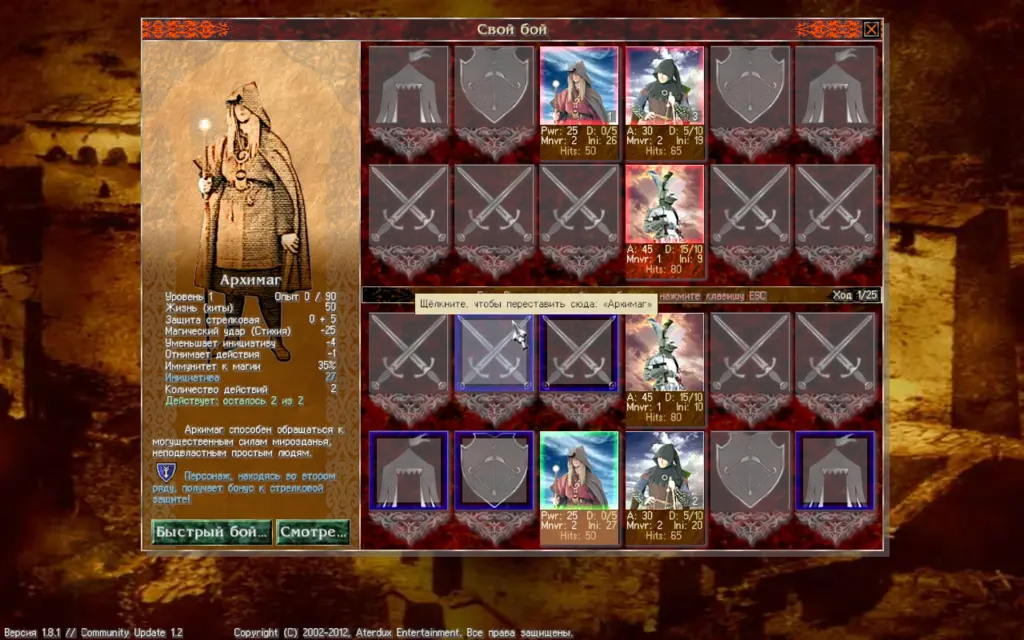
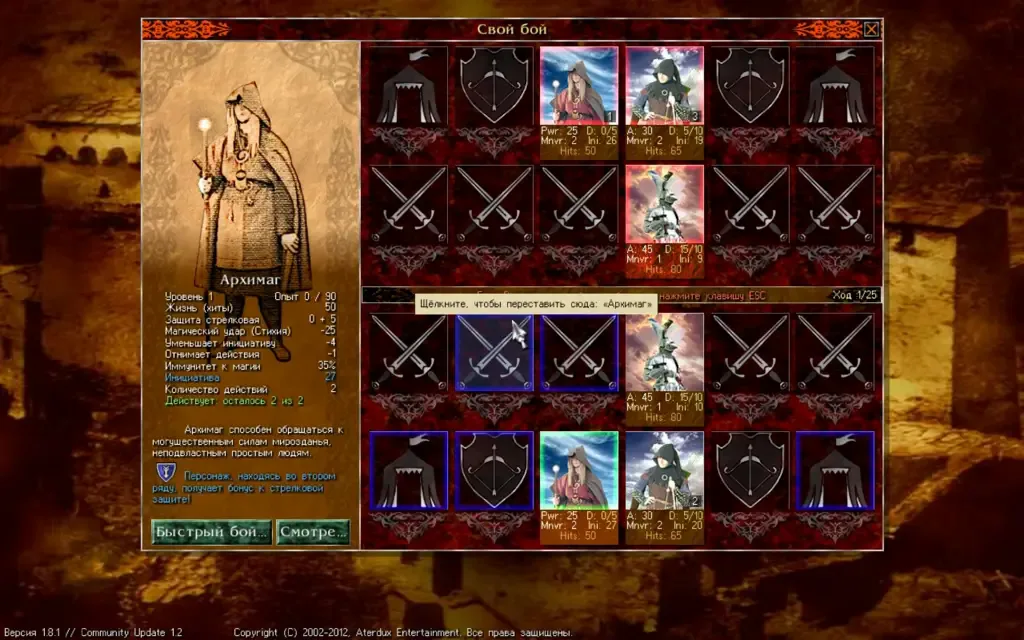
Snapshots: the PNG is written opaque, and the wiki screenshots lose their stray alpha (they looked washed out)
The window shows the frame without its alpha channel, but the snapshot PNG kept
it, so viewers blended the transparent pixels with their background. Every pixel
is now made opaque before export, and the wiki shots are re-encoded as RGB WebP
(same look, 33-75% smaller). shot.sh and the wiki skill drop the alpha too.

diff --git a/src/main.rs b/src/main.rs
@@ -93,6 +93,15 @@ fn quit_after() -> Option<u64> {
     std::env::var("RAZDOR_QUIT_AFTER").ok()?.trim().parse().ok()
 }
 
+/// Makes every pixel of an RGBA buffer opaque. The window shows the frame without its alpha
+/// channel; a PNG keeps it, and viewers then blend the transparent pixels with their
+/// background, so the snapshot looks washed out.
+fn opaque_rgba(rgba: &mut [u8]) {
+    for px in rgba.chunks_exact_mut(4) {
+        px[3] = 255;
+    }
+}
+
 /// Ends the process without running the C `atexit` handlers.
 ///
 /// A normal return from `main` crashed with SIGSEGV every time: `exit` runs the exit handlers
@@ -204,7 +213,9 @@ async fn main() {
         if let Some((path, n)) = &snapshot {
             if frames >= *n {
                 ui::text_probe::write();
-                get_screen_data().export_png(path);
+                let mut shot = get_screen_data();
+                opaque_rgba(&mut shot.bytes);
+                shot.export_png(path);
                 exit_now(&mut app);
             }
         }
@@ -227,5 +238,17 @@ async fn main() {
                 razdor::diag!("slow frame: {:.0} ms = work {w:.0} + render {r:.0} ({before} -> {})", w + r, app.screen_name());
             }
         }
+    }
+}
+
+#[cfg(test)]
+mod tests {
+    use super::opaque_rgba;
+
+    #[test]
+    fn opaque_rgba_sets_every_alpha_and_keeps_rgb() {
+        let mut px = vec![1, 2, 3, 0, 4, 5, 6, 128, 7, 8, 9, 255];
+        opaque_rgba(&mut px);
+        assert_eq!(px, vec![1, 2, 3, 255, 4, 5, 6, 255, 7, 8, 9, 255]);
     }
 }

diff --git a/.claude/skills/wiki/SKILL.md b/.claude/skills/wiki/SKILL.md
@@ -70,7 +70,8 @@ Give gemma only the sources for that page (small inputs, fewer invented facts).
    `tools/ui-regress/scenes.txt`, e.g. `РК1-Начало пути`); a bare `map` silently shows the title
    screen. Identical files (`md5sum`) mean a fallen-back scene. Look at them all at once:
    `magick montage -label '%t' *.webp -tile 4x3 -geometry 360x225+4+4 sheet.jpg`, then Read it.
-   Shrink: `magick f.webp -resize '1024x>' -quality 72 f.webp`. Reference them as
+   Shrink and drop the alpha: `magick f.webp -alpha off -resize '1024x>' -quality 72 f.webp`
+   (`shot.sh` already writes no alpha; a shot with alpha looks washed out in viewers). Reference them as
    `![alt](../../../assets/shots/<name>.webp)` (one more `../` under `en/`).
 5. `gemma.py translate` → the English page; spot-check names against `data/lang/en/`.
 6. Build: `cd wiki && nice -n 19 taskset -c 8-19 npm ci && nice -n 19 taskset -c 8-19 npm run build`. It must pass

diff --git a/docs/flows/testing-and-tools.md b/docs/flows/testing-and-tools.md
@@ -87,7 +87,8 @@ xvfb-run -a -s "-screen 0 1280x800x24" target/release/razdor
   quits. Helpers: `RAZDOR_MOUSE=x,y` (hover looks, tooltips), `RAZDOR_SCENE_QUIET=1` (drop
   the scenario's messages), `RAZDOR_SCENE_DEBUG=1`, `RAZDOR_SCENE_SPELLS`,
   `RAZDOR_SCENE_POTION`, `RAZDOR_SCENE_FILTER`, `RAZDOR_SCENE_LANGUAGE` (the language list open), `RAZDOR_SCENE_CONSOLE`,
-  `RAZDOR_SCENE_ITEMS=<id>,…` (items in the hero's pack).
+  `RAZDOR_SCENE_ITEMS=<id>,…` (items in the hero's pack). The PNG is written opaque: the
+  window shows the frame without its alpha, and a PNG that kept it would look washed out.
 - A map scene starts its map as a new game: later campaign maps may end at once by their
   own defeat event (nothing carried over) — not a bug.
 - Add a scene for every new window (`try_stage` in `src/ui/snapshot.rs`).
